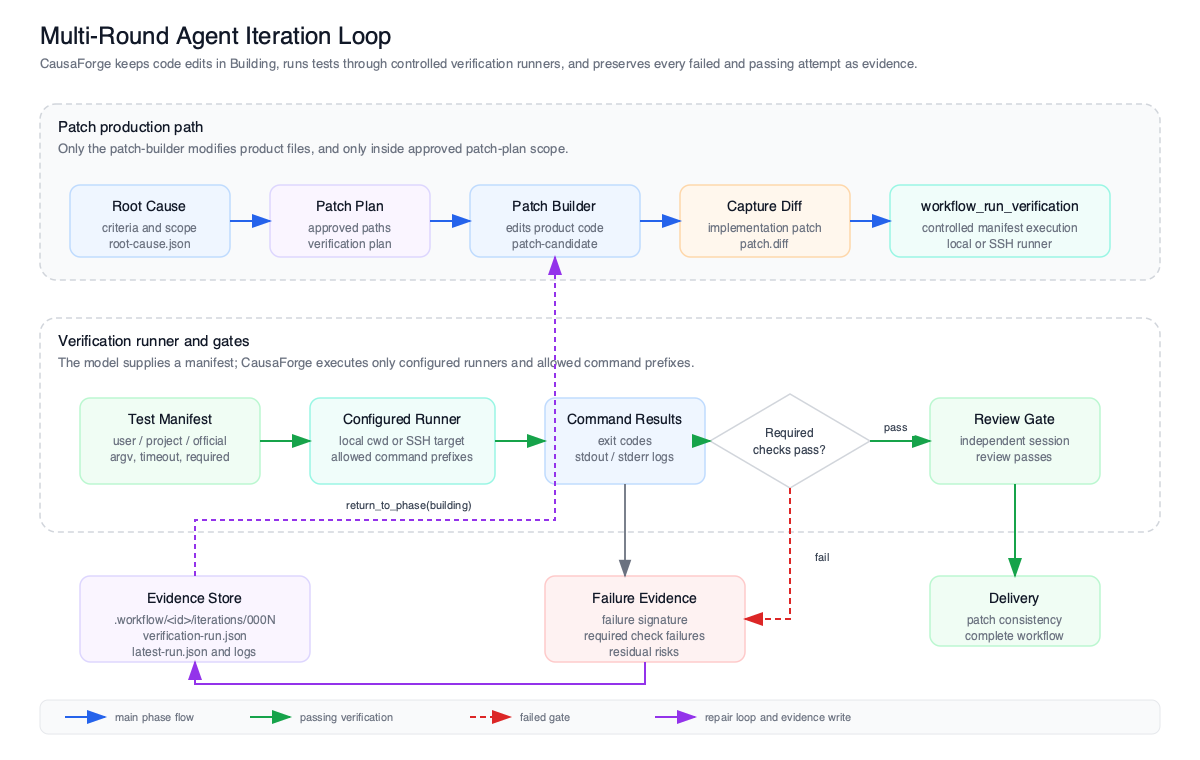
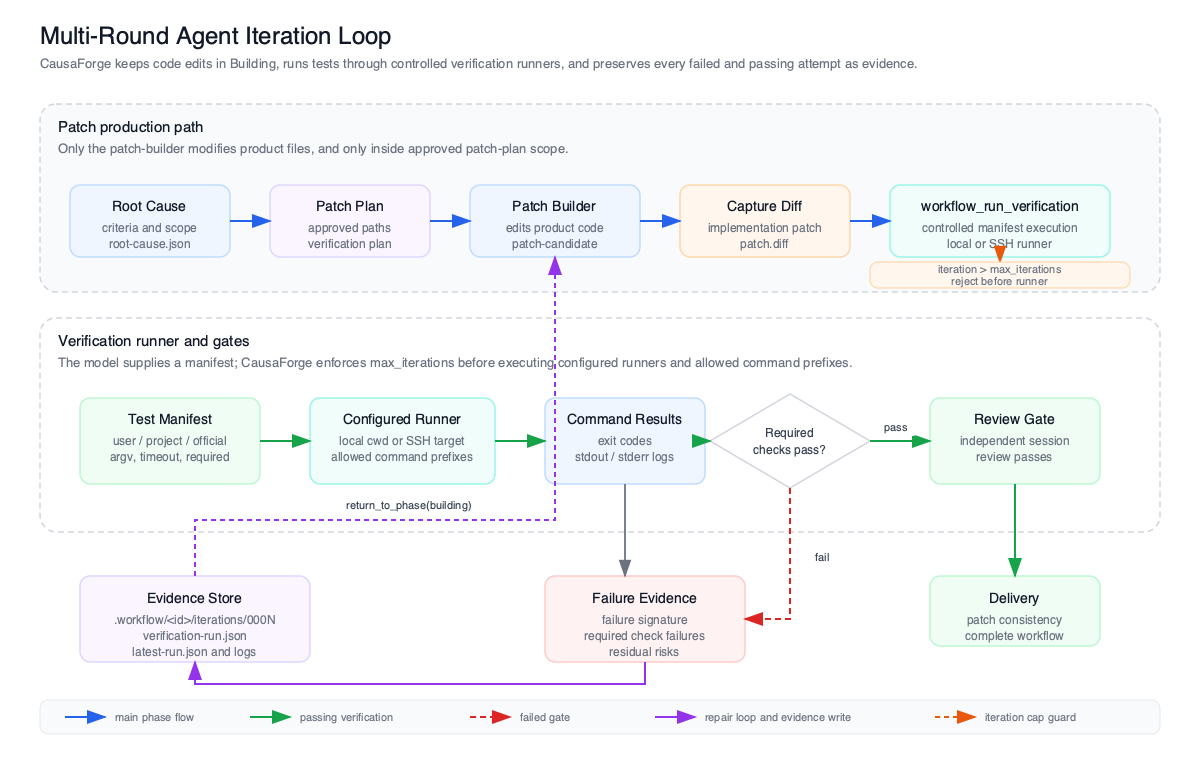
补充迭代次数上限图示
- 在多轮 Agent 迭代图中增加 max_iterations guard 和超限拒绝路径

- 同步中英文 README 对 workflow_run_verification 上限检查的说明

- 增加 MAX_ITERATIONS_EXCEEDED 回归测试，证明超限不会执行 runner

- 记录纠偏 lesson、Stage 15 计划和完整验证证据

diff --git a/packages/causaforge-opencode/src/tools/tools.test.ts b/packages/causaforge-opencode/src/tools/tools.test.ts
@@ -201,6 +201,19 @@ describe("workflow tools", () => {
     })
   })
 
+  test("rejects verification beyond the configured iteration limit before running commands", async () => {
+    const { commandCalls, tools } = await makeTools()
+
+    await expect(tools.workflow_run_verification.execute({
+      workflowId: "wf-001",
+      patchCandidateArtifactId: patchCandidate.artifactId,
+      iteration: 6,
+      manifest,
+      now: timestamp,
+    })).rejects.toThrow("MAX_ITERATIONS_EXCEEDED: 6 > 5")
+    expect(commandCalls).toEqual([])
+  })
+
 
   test("return to phase rejects terminal or forward targets", async () => {
     const { tools } = await makeTools()

diff --git a/tasks/todo.md b/tasks/todo.md
@@ -1,5 +1,20 @@
 # CausaForge 当前执行计划
 
+## Stage 15：多轮迭代次数上限图示纠偏
+
+- [x] 将 `max_iterations` guard 补入多轮 Agent 迭代 SVG/PNG 图，明确超限会在 runner 执行前拒绝
+- [x] 同步更新 README 与 README.zh-CN 的多轮迭代说明，避免用户误以为没有迭代上限
+- [x] 增加 `MAX_ITERATIONS_EXCEEDED` 回归测试，证明超限不会执行验证命令
+- [x] 运行图示渲染/视觉 QA、README 链接、相关测试、typecheck、build、diff check 和严格扫描
+- [x] 写入 `.causaforge/evidence/20260717-iteration-cap-diagram/` 证据并创建中文阶段提交
+
+### Stage 15 Review
+
+- 多轮 Agent 迭代图已新增 `iteration > max_iterations` guard，位置在 `workflow_run_verification` 下方，表达超限会在 runner 执行前拒绝。
+- README 与 README.zh-CN 已同步说明 `workflow_run_verification` 会先执行 `max_iterations` 上限 guard，再运行本地或 SSH runner。
+- 新增 workflow tools 回归测试，覆盖默认上限 5 下第 6 轮触发 `MAX_ITERATIONS_EXCEEDED`，并断言不会调用 command runner。
+- 验证证据写入 `.causaforge/evidence/20260717-iteration-cap-diagram/`：视觉 QA、README 链接、SVG/XML、PNG 渲染、96 个测试、typecheck、build、diff check 和严格扫描均通过。
+
 ## Stage 14：README 多轮 Agent 迭代架构图
 
 - [x] 新增多轮 agent 迭代闭环 SVG/PNG 图，展示 builder、verification runner、failure evidence、回修和 review gate

diff --git a/.causaforge/evidence/20260717-iteration-cap-diagram/QA-SUMMARY.md b/.causaforge/evidence/20260717-iteration-cap-diagram/QA-SUMMARY.md
@@ -1,0 +1,12 @@
+# Stage 15 QA Summary
+
+- `svg-xml.txt`: `docs/diagrams/causaforge-iterative-agent-loop.svg` parses as valid XML.
+- `png-render.txt`: rendered PNG exists at 1200x760.
+- Visual QA: manually inspected `docs/diagrams/causaforge-iterative-agent-loop.png`; the new `iteration > max_iterations` guard is readable, stays inside the patch production section, and does not overlap arrows, nodes, labels, or section borders.
+- `readme-links.txt`: README and README.zh-CN local links and image paths resolve.
+- `tools-test.txt`: targeted workflow tools test passed, including `MAX_ITERATIONS_EXCEEDED` before command execution.
+- `test.txt`: `bun test packages/causaforge-core/src packages/causaforge-opencode/src` passed with 96 tests and 0 failures.
+- `typecheck.txt`: root, core, and OpenCode adapter TypeScript checks passed.
+- `build.txt`: `bun run build` completed successfully.
+- `diff-check.txt`: `git diff --check` returned no whitespace errors.
+- `strict-legacy-scan.txt`: strict legacy identifier scan returned zero matches.

diff --git a/README.md b/README.md
@@ -151,7 +151,7 @@ SVG source: [`docs/diagrams/causaforge-workflow.svg`](./docs/diagrams/causaforge
 
 SVG source: [`docs/diagrams/causaforge-iterative-agent-loop.svg`](./docs/diagrams/causaforge-iterative-agent-loop.svg)
 
-The repair loop is intentionally narrow: only `patch-builder` edits product files, `workflow_run_verification` executes configured local or SSH runners, and every failed or passing run is preserved under `.workflow/<workflowId>/iterations/<000N>/`. A failed required check records failure evidence and returns the workflow to `building`; only a passing verification can advance to independent review.
+The repair loop is intentionally narrow: only `patch-builder` edits product files, `workflow_run_verification` enforces `max_iterations` before executing configured local or SSH runners, and every failed or passing run is preserved under `.workflow/<workflowId>/iterations/<000N>/`. A failed required check records failure evidence and returns the workflow to `building`; an iteration above the configured cap is rejected before runner execution; only a passing verification can advance to independent review.
 
 ## Agent Roster
 

diff --git a/README.zh-CN.md b/README.zh-CN.md
@@ -151,7 +151,7 @@ SVG 源文件：[`docs/diagrams/causaforge-workflow.svg`](./docs/diagrams/causaf
 
 SVG 源文件：[`docs/diagrams/causaforge-iterative-agent-loop.svg`](./docs/diagrams/causaforge-iterative-agent-loop.svg)
 
-回修闭环被刻意收窄：只有 `patch-builder` 能修改产品文件，`workflow_run_verification` 只执行配置好的本地或 SSH runner，并且每一轮失败或通过的验证都会保存在 `.workflow/<workflowId>/iterations/<000N>/`。必需检查失败时会记录 failure evidence 并返回 `building`；只有通过的 verification 才能进入 independent review。
+回修闭环被刻意收窄：只有 `patch-builder` 能修改产品文件，`workflow_run_verification` 会先执行 `max_iterations` 上限 guard，再运行配置好的本地或 SSH runner，并且每一轮失败或通过的验证都会保存在 `.workflow/<workflowId>/iterations/<000N>/`。必需检查失败时会记录 failure evidence 并返回 `building`；超过配置上限的 iteration 会在 runner 执行前被拒绝；只有通过的 verification 才能进入 independent review。
 
 ## Agent 阵容
 

diff --git a/tasks/lessons.md b/tasks/lessons.md
@@ -39,3 +39,4 @@
 - 用户指出 README 第一张架构图存在文字与图形重叠；以后只做链接检查、SVG XML 校验、PNG 渲染成功和构建测试不够。
 - 修改或重排 README 图示后，必须人工查看渲染后的 PNG/README 首屏截图，确认标题、说明、标签、箭头和节点没有重叠、裁切或越界。
 - 对图示类文档变更，QA summary 必须明确记录“视觉检查通过”或列出无法视觉确认的原因。
+- 用户指出多轮 Agent 迭代图漏掉 `max_iterations` 上限；以后架构/流程图必须覆盖关键 guard、配置默认值和失败分支，不能只画主 happy path 与普通失败回修路径。